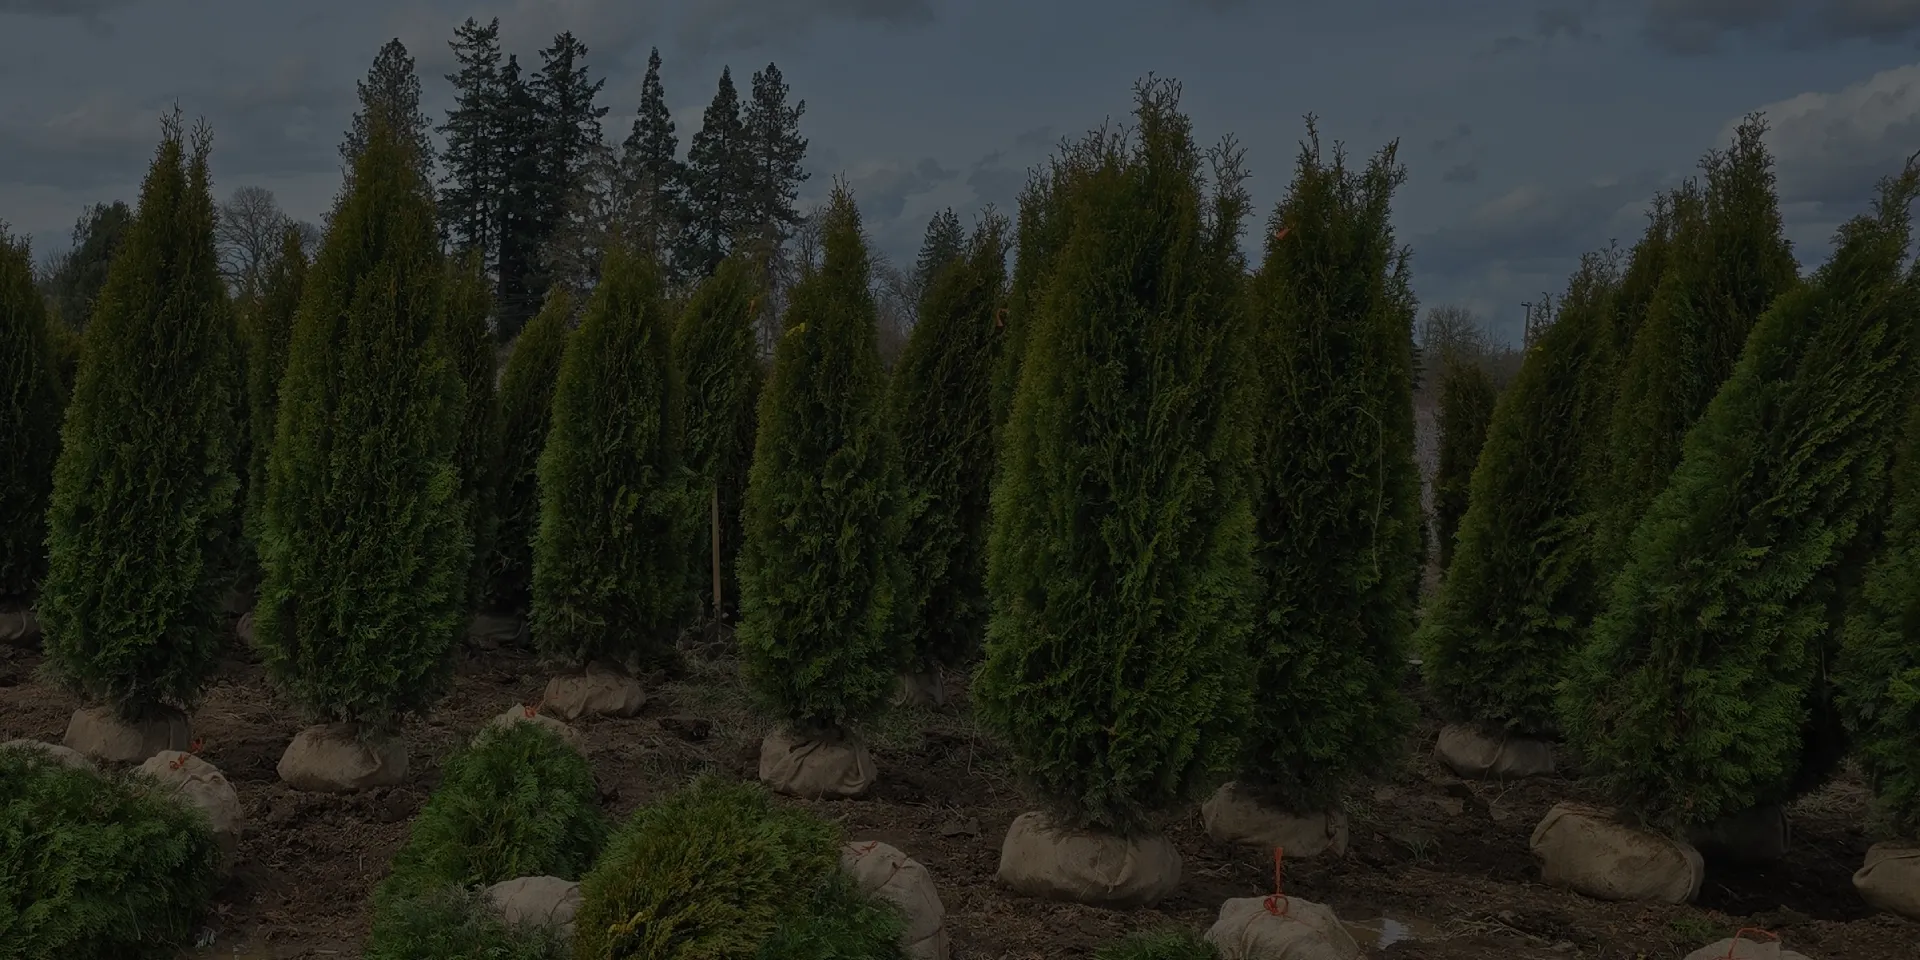
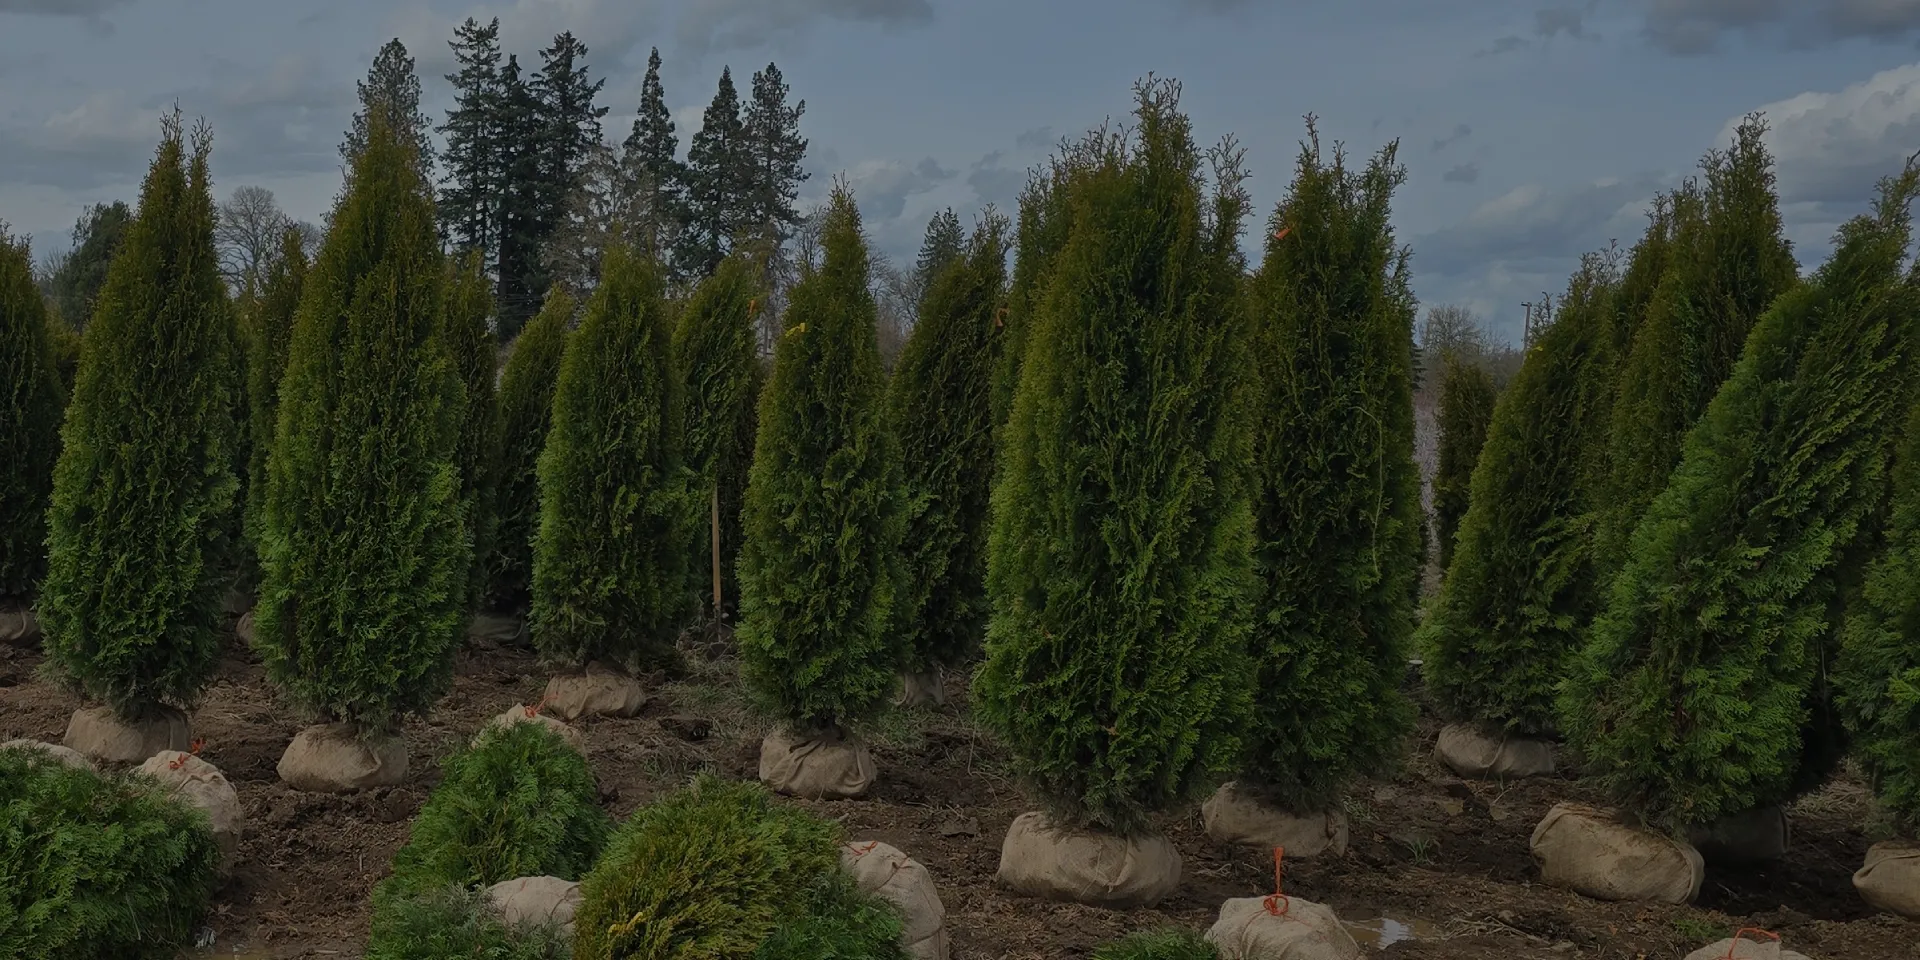
ajustes en moviles

diff --git a/src/components/HomeCarousel.tsx b/src/components/HomeCarousel.tsx
@@ -5,13 +5,13 @@ const slides = [
 	{
 		image: "/img/slider1-greencountry.webp",
 		title: "Trusted landscaping services in Idaho",
-		subtitle: "Sustainable and expert landscaping solutions",
+		subtitle: "Expert landscaping solutions",
 		link: "/about"
 	},
 	{
 		image: "/img/slider2-greencountry.webp",
 		title: "Hardscape and outdoor living spaces",
-		subtitle: "Custom-designed hardscape features",
+		subtitle: "Custom-designed hardscape",
 		link: "/services"
 	},
 	{
@@ -48,10 +48,10 @@ const slides = [
 			  className="w-full h-128 md:h-screen object-cover"
 			/>
 			<div className="absolute inset-0 flex flex-col items-center justify-center bg-black/20">
-				<h2 className="text-2xl md:text-5xl font-bold text-white mb-2 text-shadow-lg">
+				<h2 className="text-2xl md:text-5xl font-bold text-white mb-2 text-shadow-lg mx-6 text-center">
 					{src.title}
 				</h2>
-				<p className=" text-white/90 mb-6 text-shadow-lg">
+				<p className=" md:text-lg text-white/90 mb-6 text-shadow-lg mx-10 text-center">
 					{src.subtitle}
 				</p>
 				<a href={src.link} className="boton crece px-6 py-2">

diff --git a/src/components/Contenido1.tsx b/src/components/Contenido1.tsx
@@ -12,10 +12,10 @@ const Contenido1: React.FC<Contenido1Props> = ({ title, subtitle, contenido, ima
     <div className="container bg-white mx-auto px-4 pt-12">
         <div className="grid grid-cols-1 md:grid-cols-2 gap-8">
           <div className="flex flex-col justify-center" data-aos="fade-up">
-            <h2 className="text-4xl font-bold text-stone-800">
+            <h2 className="text-2xl md:text-4xl font-bold text-stone-800">
               {title}
             </h2>
-            <h3 className="text-2xl font-bold text-stone-800 mb-4">
+            <h3 className="text-lg md:text-2xl font-bold text-stone-800 mb-4">
                 {subtitle}
             </h3>
             <p className="text-stone-700 leading-relaxed">

diff --git a/src/components/Contenido2.tsx b/src/components/Contenido2.tsx
@@ -19,10 +19,10 @@ const Contenido2: React.FC<Contenido2Props> = ({ title, subtitle, contenido, ima
 				/>
 			</div>
 			<div className="flex flex-col justify-center" data-aos="fade-up">
-				<h3 className="text-3xl font-bold text-stone-800">
+				<h3 className="text-2xl md:text-3xl font-bold text-stone-800">
 				{title}
 				</h3>
-				<h4 className="text-2xl font-bold text-stone-800 mb-4">
+				<h4 className="text-lg md:text-2xl font-bold text-stone-800 mb-4">
 					{subtitle}
 				</h4>
 				<p className="text-stone-700 leading-relaxed">

diff --git a/src/components/Contenido4.tsx b/src/components/Contenido4.tsx
@@ -20,10 +20,10 @@ const Contenido4: React.FC<Contenido4Props> = ({ title, subtitle, contenido, ima
 				/>
 			</div>
 			<div className="flex flex-col justify-center" data-aos="fade-up">
-				<h3 className="text-3xl font-bold text-stone-800">
+				<h3 className="text-2xl md:text-3xl font-bold text-stone-800">
 				{title}
 				</h3>
-				<h4 className="text-2xl font-bold text-stone-800 mb-4">
+				<h4 className="text-lg md:text-2xl font-bold text-stone-800 mb-4">
 					{subtitle}
 				</h4>
 				<ul className="text-stone-700 leading-relaxed">

diff --git a/src/components/Contenido3.tsx b/src/components/Contenido3.tsx
@@ -15,7 +15,7 @@ const Contenido3: React.FC<Contenido3Props> = ({ title, subtitle, contenido, ima
 				<h3 className="text-3xl font-bold text-stone-800">
 				{title}
 				</h3>
-				<h4 className="text-2xl font-bold text-stone-800 mb-4">
+				<h4 className="text-lg md:text-2xl font-bold text-stone-800 mb-4">
 					{subtitle}
 				</h4>
 				<p className="text-stone-700 leading-relaxed">

diff --git a/src/components/HeroImage.tsx b/src/components/HeroImage.tsx
@@ -12,7 +12,7 @@ const HeroImage: React.FC<HeroImageProps> = ({ text, image }) => {
         style={{ backgroundImage: `url('/img/${image}')`, minHeight: '400px' }}
         data-aos="fade-up"
       >
-        <h2 className="text-white text-shadow-lg text-3xl md:text-4xl font-bold text-center" data-aos="fade-in" data-aos-delay="500">
+        <h2 className="mx-6 text-white text-shadow-lg text-3xl md:text-4xl font-bold text-center" data-aos="fade-in" data-aos-delay="500">
           { text }
         </h2>
     </div>